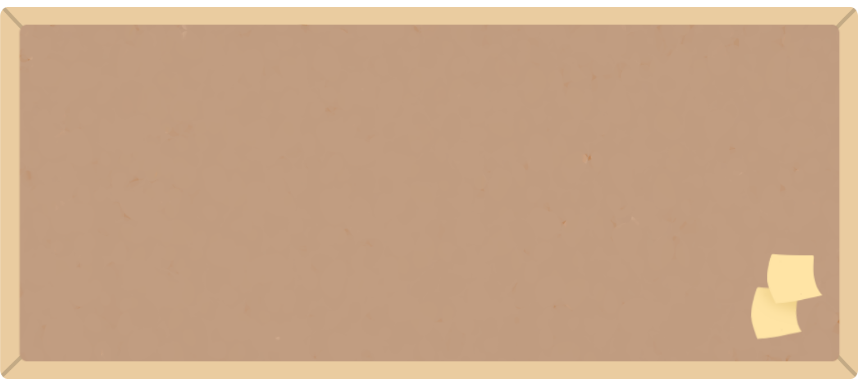
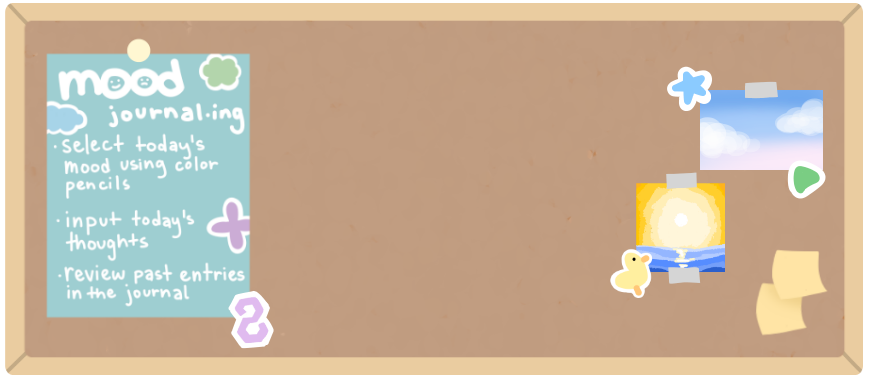
scroll poster

diff --git a/frontend/src/components/Background/index.js b/frontend/src/components/Background/index.js
@@ -1,6 +1,8 @@
 import BulletinBoard from '../../images/bulletinboard.png'
 import Calendar from '../Calendar'
 import ShelfBear from '../../images/shelf.png'
+import Carpet from "../../images/carpet.png"
+import ScrollPoster from "../../images/scrollposter.png"
 
 const computeTopDisplacement = (amt) => {
     return 20-(amt-4000)/10
@@ -22,21 +24,13 @@ const Background = ({style, scrollAmount, authenticated}) => {
     return (
         <div style={{...style}}>
             <div style={{
-                backgroundColor: "grey",
                 position: "absolute",
-                height: `${computeHeight(scrollAmount)}px`,
+                height: `${computeHeight(scrollAmount)/2}px`,
                 width: "100vw",
                 bottom: 0
             }}>
+                <img src={Carpet} style={{position: "absolute", width: "100vw", }} />
             </div>
-
-            {/* {authenticated &&
-                <Calendar style={{
-                    zIndex:1,
-                    left: `calc((100vw - 200px) / 2)`,
-                }}/>
-            } */}
-
 
             <div
                 style={{
@@ -48,7 +42,6 @@ const Background = ({style, scrollAmount, authenticated}) => {
                     transformOrigin: "top",
                 }}
             >
-
                 <img src={ShelfBear}
                     style={{
                         position: "absolute",
@@ -59,6 +52,7 @@ const Background = ({style, scrollAmount, authenticated}) => {
                         transform: `perspective(300vh) rotateX(${computeDegrees(scrollAmount)}deg)`,
                     }}
                 />
+
                 <img src={BulletinBoard} style={{
                     width: "100%",
                     position: "absolute"
@@ -73,6 +67,17 @@ const Background = ({style, scrollAmount, authenticated}) => {
                             width: `calc((${computeWidth(scrollAmount)}px) / 3)`
                         }}
                         calendarWidth={computeWidth(scrollAmount)/3}
+                    />
+                }
+                
+                {!authenticated &&
+                    <img src={ScrollPoster} 
+                        style={{
+                            position: "absolute",
+                            top: "100px",
+                            left: `calc((100% - (${computeWidth(scrollAmount)}px / 10)) / 2)`,
+                            width: `calc((${computeWidth(scrollAmount)}px) / 10)`
+                        }}
                     />
                 }
             </div>
